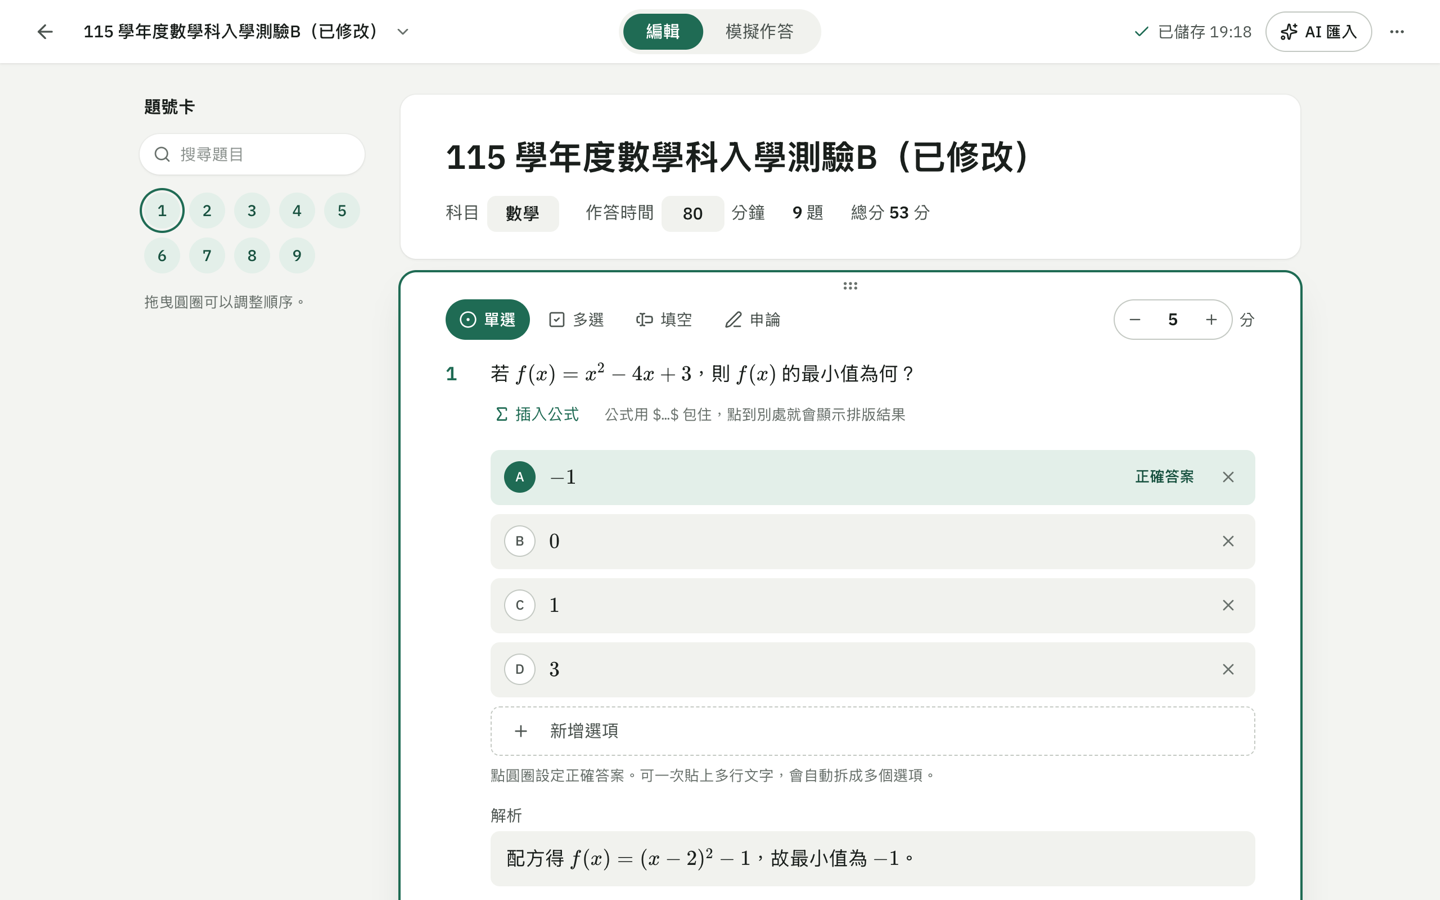
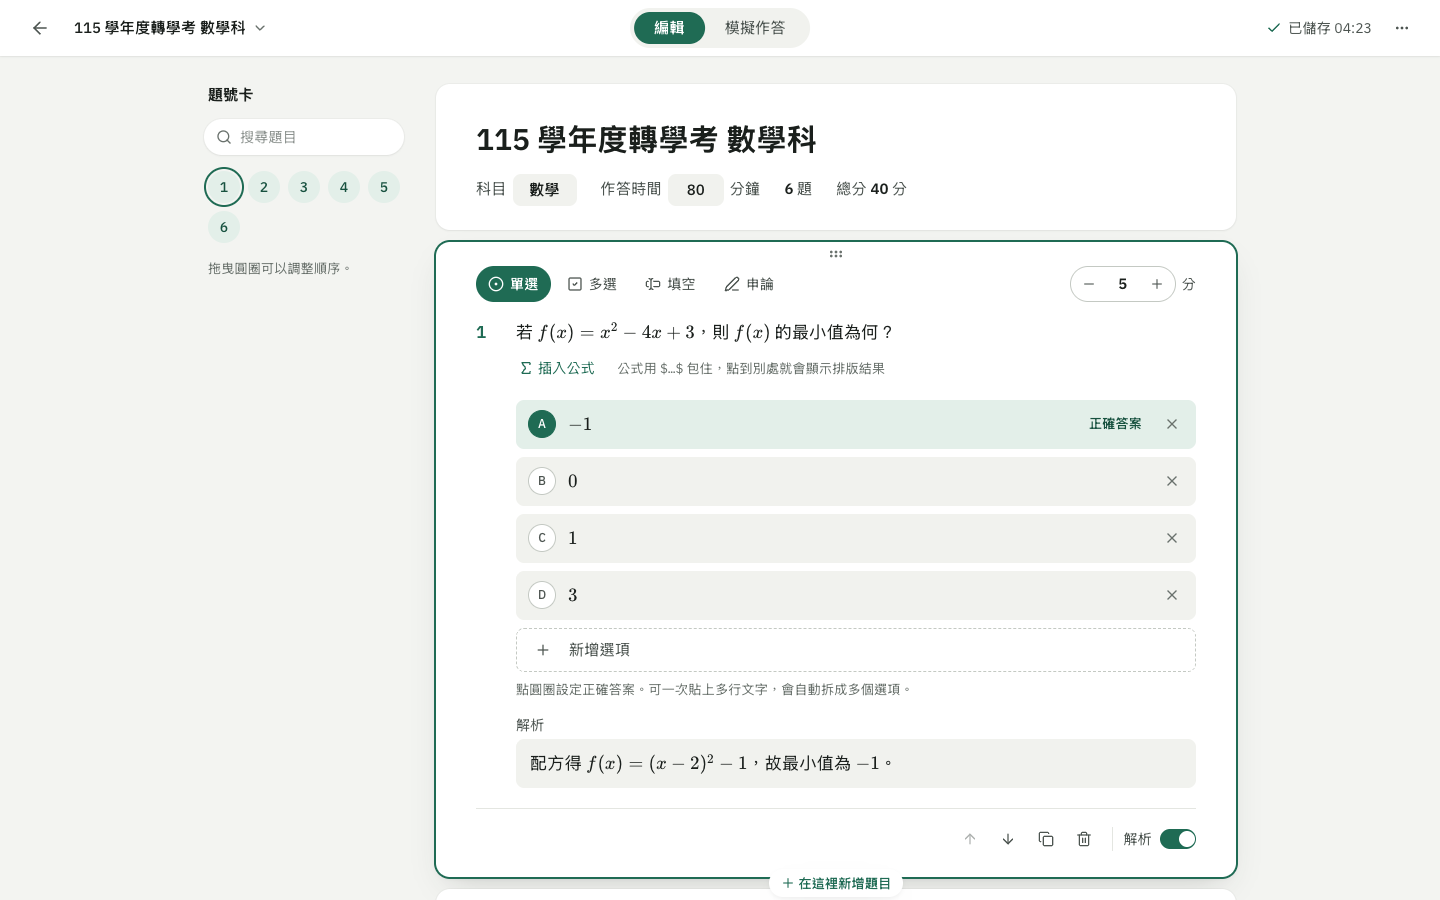
Add a screenshot gallery of every page, desktop and phone
Retaken on the production build with clean demo data; the README shows proctoring and the candidate view
and links the gallery. Status records the UI review.

diff --git a/docs/screenshots.md b/docs/screenshots.md
@@ -1,0 +1,86 @@
+# Screenshots
+
+The production build with demo data, in the order an admission exam runs. Desktop at 1440 x 900; phone at 390 px wide.
+Retake them after visible UI changes (see "Retaking" at the end).
+
+## Signing in
+
+| Desktop | Phone |
+| --- | --- |
+| ![Login page](images/login.png) | ![Login page on a phone](images/login-phone.png) |
+
+Candidates sign in with the candidate number and login code from their slip; staff switch to the second tab.
+
+## Teachers: question banks
+
+![Bank list](images/banks.png)
+
+![Bank editor](images/editor.png)
+
+The editor saves automatically. Math is typed as `$...$` and rendered with KaTeX, bundled with the app.
+
+![Try-it mode](images/editor-preview.png)
+
+"Try it" shows the bank exactly as a candidate will see it.
+
+## Exam officer: scheduling and proctoring
+
+![Officer home](images/officer-home.png)
+
+The home page lists what needs doing next for each exam.
+
+![Exam list](images/exams.png)
+
+![New exam](images/exam-new.png)
+
+| Desktop | Phone |
+| --- | --- |
+| ![Proctoring](images/exam-proctor.png) | ![Proctoring on a phone](images/exam-proctor-phone.png) |
+
+Proctoring refreshes every 10 seconds. Clicking a count shows only those candidates, for example "needs attention" (locked out by wrong codes, or left the exam window).
+
+![Login slips](images/exam-slips.png)
+
+One slip per candidate, printed from the browser.
+
+## Candidates
+
+![Candidate home](images/candidate-home.png)
+
+![Identity check and rules](images/candidate-rules.png)
+
+| Desktop | Phone |
+| --- | --- |
+| ![Taking the exam](images/candidate-exam.png) | ![Taking the exam on a phone](images/candidate-exam-phone.png) |
+
+The clock is display only; timing and auto-submit are on the server. Answers save as they change.
+
+## Grading and results
+
+![Teacher home](images/teacher-home.png)
+
+| Desktop | Phone |
+| --- | --- |
+| ![Anonymous grading](images/grading.png) | ![Grading on a phone](images/grading-phone.png) |
+
+Graders see one anonymous answer at a time and must enter a score (0 included) before submitting.
+
+![Graders and progress](images/exam-grading.png)
+
+![Results](images/exam-results.png)
+
+Results can be published once the exam has ended and every essay is graded.
+
+## System administrators
+
+![Accounts](images/admin-users.png)
+
+![Audit log](images/admin-audit.png)
+
+The audit log is append-only and can be filtered by action.
+
+## Retaking
+
+1. Run the backend in the dev profile against an empty database, and serve the production build: `cd testa && npm run build && npx vite preview`.
+2. Create realistic demo data through the API (banks, an exam in progress, an ended exam with essays half graded, a draft), the same way `deploy/smoke-test.py` does.
+3. Capture with a headless browser at 1440 x 900 (1x) and 390 x 844 (2x). Keep names and the demo data free of real people and school details.

diff --git a/docs/status.md b/docs/status.md
@@ -29,6 +29,7 @@ Last reviewed: 2026-11-15.
 | Failure cases | Backend restart mid-exam, database restart, the same candidate signing in twice, lockout after wrong login codes and reset, officer ending the exam early, auto-submit at time-up (including candidates who never reconnect), proctor adding time just before time-up (countdown extends, no auto-submit) |
 | HTTPS | Behind a reverse proxy with a self-signed certificate and `TESTA_COOKIE_SECURE=true`, the full mock exam passes. With `set_real_ip_from`, rate limits and the audit log use the real client IP and forged `X-Forwarded-For` is ignored. With `deploy/https.yml` (TLS on this VM): port 80 redirects, HTTP/2, secure cookies, full mock exam passes |
 | Browser (Chromium) | Candidates: sign-in, all four question types, reload and resume, resend after disconnect, being kicked, submit, time-up, checking scores (including 390 and 320 px widths). Staff: password change, authoring, creating exams, Big5 roster import, login slips, proctoring, grading, publishing, export. Admin pages. Archive and unarchive, emergency access grant and view, grader disagreement warnings (grading page, results page, confirm before publishing) |
+| UI review | 2026-11-15, every page at 1440 px and 390 px on the production build with demo data ([Screenshots](screenshots.md)). Fixed: an exam page kept the previous exam's tab and score table when moving between exams; the try-it preview kept the previous bank's answers; graders could submit an untouched score of 0; the nav lost its highlight on detail pages; exam tabs and status badges wrapped on phones; slip URLs broke mid-word. Added: proctoring filters by status, staff search, audit log filter by action |
 | Automated tests | 42 backend integration tests (Testcontainers with real PostgreSQL); 19 frontend unit tests |
 
 ### Needs the real site

diff --git a/README.md b/README.md
@@ -8,9 +8,11 @@ The repository is `tpcu-testa`; the application is called Testa and has no schoo
 
 ![Question bank editor](docs/images/editor.png)
 
-| Login | Exams |
+| Proctoring | Taking the exam |
 | --- | --- |
-| ![Login page](docs/images/login.png) | ![Exam list](docs/images/exams.png) |
+| ![Proctoring](docs/images/exam-proctor.png) | ![Taking the exam](docs/images/candidate-exam.png) |
+
+More in [Screenshots](docs/screenshots.md).
 
 ## Documentation
 
@@ -18,6 +20,7 @@ The repository is `tpcu-testa`; the application is called Testa and has no schoo
 | --- | --- |
 | [Design document](docs/testa-system-design.html) | Requirements, roles, flows and open questions (Chinese; open in a browser) |
 | [Status](docs/status.md) | What is done, what was tested, what is left |
+| [Screenshots](docs/screenshots.md) | Every page, desktop and phone |
 | [Deployment](docs/deployment.md) | Going live, HTTPS, network and offline exams, upgrades, backup and restore |
 | [Development](docs/development.md) | Layout, backend conventions, tests |
 | [Frontend](testa/README.md) | Pages, component layout, design tokens, UI principles |

diff --git a/README.zh-TW.md b/README.zh-TW.md
@@ -8,9 +8,11 @@
 
 ![題庫編輯器](docs/images/editor.png)
 
-| 登入 | 考試管理 |
+| 監考 | 考生作答 |
 | --- | --- |
-| ![登入頁](docs/images/login.png) | ![考試列表](docs/images/exams.png) |
+| ![監考畫面](docs/images/exam-proctor.png) | ![考生作答畫面](docs/images/candidate-exam.png) |
+
+更多畫面請看[截圖](docs/screenshots.md)。
 
 ## 文件
 
@@ -20,6 +22,7 @@
 | --- | --- |
 | [設計文件](docs/testa-system-design.html) | 需求、角色、流程、待確認事項（用瀏覽器開） |
 | [進度與測試](docs/status.md) | 做完什麼、測過什麼、還沒做什麼 |
+| [截圖](docs/screenshots.md) | 每個畫面的桌機與手機版 |
 | [部署](docs/deployment.md) | 上線、HTTPS、網路與斷網考試、升級、備份與還原 |
 | [開發](docs/development.md) | 專案結構、後端慣例、測試 |
 | [前端](testa/README.md) | 頁面、元件結構、design tokens、介面原則 |
